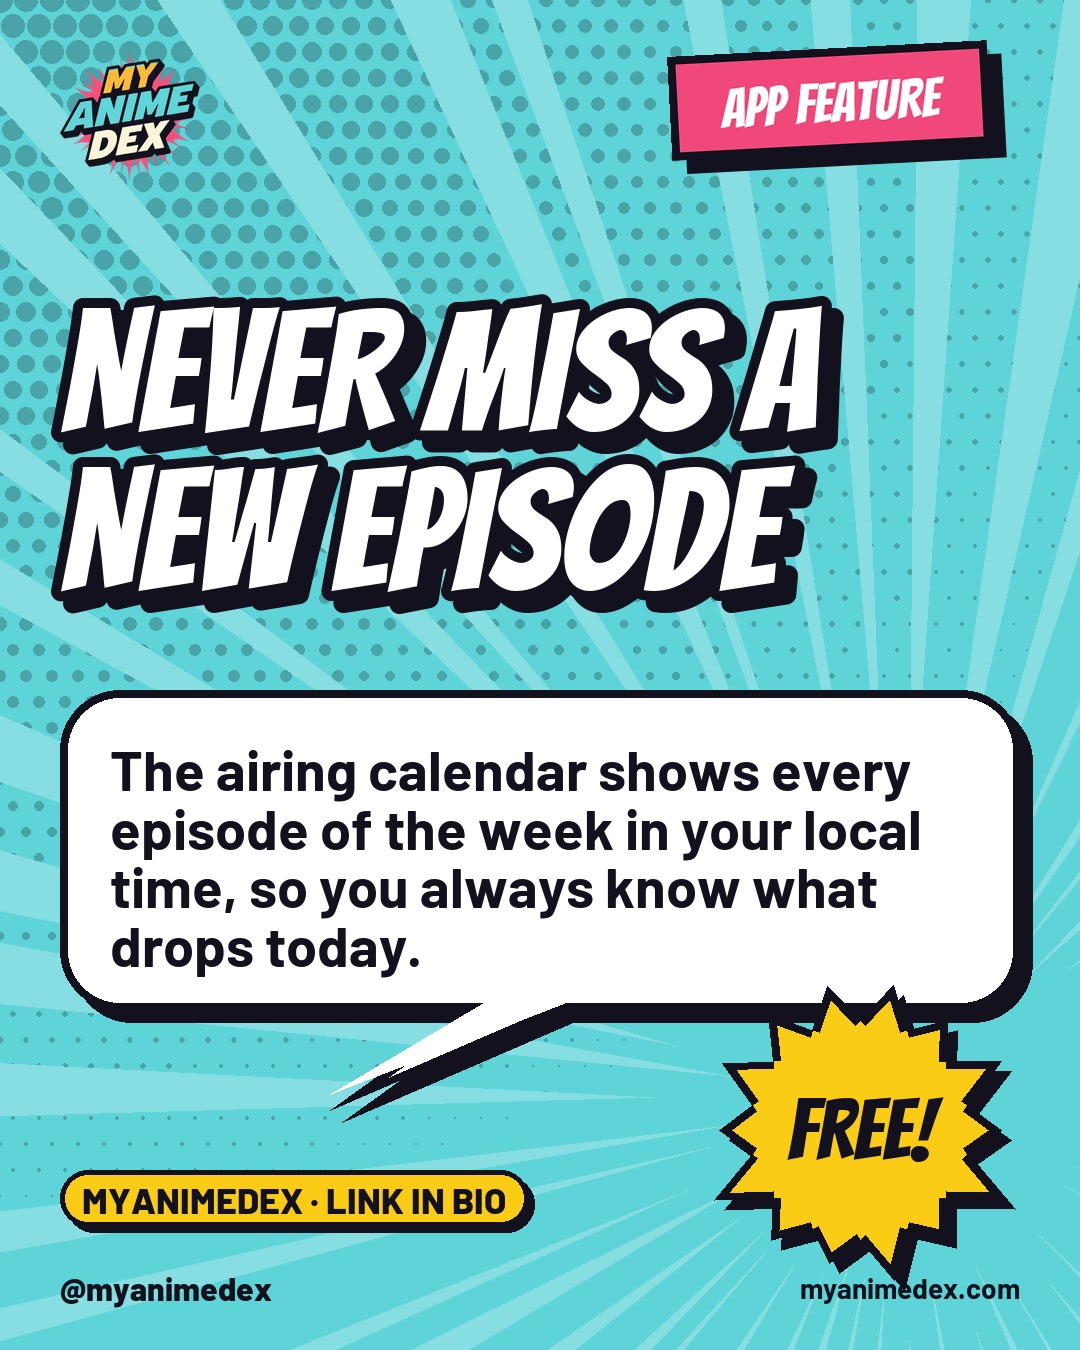
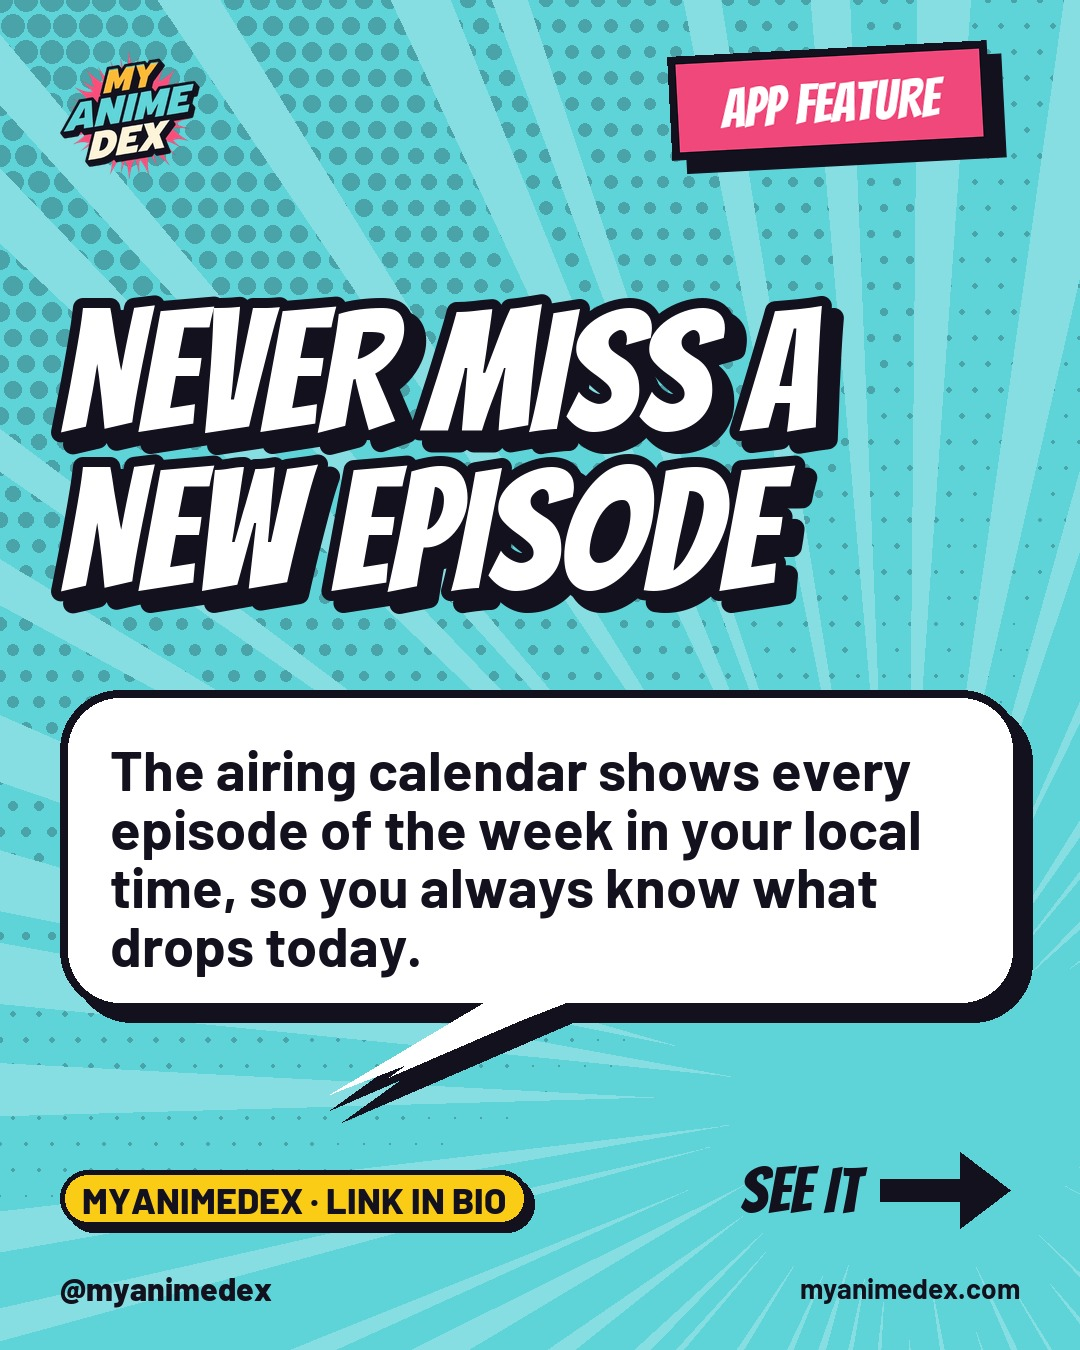
feat: feature posts become a 2-slide carousel with a masked app screenshot
Slide 1 is the typographic card, slide 2 shows the real app screen with
official posters and avatars covered by brand-colored blocks (mask boxes
in features.yaml). Refreshes the frozen Wednesday slot of plans/2026-W44.

Changed region(s): [[0.6722, 0.7156, 0.9472, 0.9644]]

diff --git a/src/mad/render/templates.py b/src/mad/render/templates.py
@@ -234,32 +234,48 @@ def _top5_slide(m, data) -> Canvas:
 # ---------------------------------------------------------------- Wednesday: app feature
 
 def render_feature(data: dict[str, Any], out_dir: Path) -> list[Path]:
+    """Slide 1: typographic feature card. Slide 2 (only with a screenshot): the app screen."""
     f = data["feature"]
     shot = resolve(f.get("screenshot"))
+    slides = [_feature_card(f, carousel=bool(shot))]
+    if shot:
+        slides.append(_feature_screen(f, shot))
+    return save_all(slides, out_dir)
+
+
+def _feature_card(f, carousel: bool) -> Canvas:
     c = Canvas(POST, TEAL)
     c.halftone(mix(TEAL, INK, 0.25), origin="tl", max_r=12)
     c.speed_lines((900, 1100), mix(TEAL, WHITE, 0.25), count=50, inner=200, seed=4)
     c.logo((60, 50), 130)
     banner(c, (840, 110), (f.get("kicker") or "APP FEATURE").upper(), 54, fill=MAGENTA, fg=WHITE,
            angle=3, name="comic")
-    if shot:
-        c.text_block((60, 240, 600, 700), f["title"].upper(), "comic", 130, 60, fill=WHITE, valign="top",
-                     stroke=8, shadow=(10, 10), max_lines=5)
-        c.bubble((60, 760, 600, 1130), tail_to=(470, 1210))
-        c.text_block((100, 800, 560, 1100), f["description"], "body_bold", 46, 26, fill=INK,
-                     valign="middle", max_lines=7)
-        c.rotated((470, 1020), lambda s: s.image(shot, (24, 24, 430, 970), radius=36), (830, 760), -4)
+    c.text_block((60, 240, 1020, 640), f["title"].upper(), "comic", 170, 70, fill=WHITE,
+                 valign="middle", stroke=10, shadow=(12, 12), max_lines=3)
+    c.bubble((60, 690, 1020, 1010), tail_to=(330, 1110))
+    c.text_block((110, 725, 970, 980), f["description"], "body_bold", 56, 30, fill=INK,
+                 valign="middle", max_lines=5)
+    if carousel:
+        c.text((860, 1190), "SEE IT", "comic", 64, fill=INK, anchor="rm")
+        c.arrow((880, 1190), 130)
     else:
-        c.text_block((60, 240, 1020, 640), f["title"].upper(), "comic", 170, 70, fill=WHITE,
-                     valign="middle", stroke=10, shadow=(12, 12), max_lines=3)
-        c.bubble((60, 690, 1020, 1010), tail_to=(330, 1110))
-        c.text_block((110, 725, 970, 980), f["description"], "body_bold", 56, 30, fill=INK,
-                     valign="middle", max_lines=5)
         c.burst((860, 1130), 150, 110, points=14, fill=YELLOW, shadow=(10, 10), seed=8)
         c.text((860, 1130), "FREE!", "comic", 84, fill=INK, anchor="mm")
     c.chip((60, 1170), "MYANIMEDEX · LINK IN BIO", size=36, fill=YELLOW)
     footer(c, fg=INK, data_credit=False)
-    return save_all([c], out_dir)
+    return c
+
+
+def _feature_screen(f, shot: Path) -> Canvas:
+    c = Canvas(POST, INK)
+    c.speed_lines((540, 700), mix(INK, TEAL, 0.18), count=80, inner=330)
+    c.halftone(mix(INK, MAGENTA, 0.45), origin="br", max_r=12)
+    banner(c, (540, 95), "IN THE APP", 76, fill=YELLOW, fg=INK, angle=-2)
+    c.image(shot, (300, 190, 780, 1240), radius=40, masks=f.get("mask"))
+    c.burst((945, 330), 100, 74, points=14, fill=MAGENTA, shadow=(10, 10), seed=6)
+    c.text((945, 332), "FREE", "comic", 56, fill=WHITE, anchor="mm", stroke=4)
+    footer(c, data_credit=False)
+    return c
 
 
 # ---------------------------------------------------------------- stories
@@ -310,7 +326,8 @@ def render_story_tip(data, out_dir):
         c.bubble((80, 730, 1000, 1020), tail_to=(330, 1090), shadow=12)
         c.text_block((130, 760, 950, 990), tip["text"], "body_bold", 54, 30, fill=INK, valign="middle",
                      max_lines=4)
-        c.rotated((520, 640), lambda s: s.image(shot, (24, 24, 480, 600), radius=36), (540, 1360), 3)
+        c.rotated((520, 640), lambda s: s.image(shot, (24, 24, 480, 600), radius=36, masks=tip.get("mask")),
+                  (540, 1360), 3)
     else:
         c.text_block((80, 560, 1000, 860), tip["title"].upper(), "comic", 170, 80, fill=INK,
                      valign="middle", max_lines=2)

diff --git a/src/mad/render/base.py b/src/mad/render/base.py
@@ -254,9 +254,18 @@ class Canvas:
         self.im.paste(im, (int(x), int(y)), im)
         return (x, y, x + w, y + height)
 
-    def image(self, path: Path, box, border=10, radius=48, shadow=18):
-        """Screenshot inside an inked phone frame, fitted into box (keeps aspect)."""
+    def image(self, path: Path, box, border=10, radius=48, shadow=18, masks=None):
+        """Screenshot inside an inked phone frame, fitted into box (keeps aspect).
+
+        `masks`: [[x0, y0, x1, y1], ...] in source-image pixels — areas (official posters,
+        avatars) that are covered with flat brand-colored blocks before drawing.
+        """
         src = Image.open(path).convert("RGB")
+        if masks:
+            md = ImageDraw.Draw(src)
+            r = max(4, src.width // 70)
+            for i, (mx0, my0, mx1, my1) in enumerate(masks):
+                md.rounded_rectangle((mx0, my0, mx1, my1), r, fill=mix(ACCENTS[i % 3], INK, 0.15))
         x0, y0, x1, y1 = box
         scale = min((x1 - x0) / src.width, (y1 - y0) / src.height)
         w, h = int(src.width * scale), int(src.height * scale)

diff --git a/src/mad/captions.py b/src/mad/captions.py
@@ -84,7 +84,7 @@ def hashtags(season: str, year: int, media: dict[str, Any] | None) -> list[str]:
     return tags
 
 
-def build(kind: str, variant_seed: int, fields: dict[str, Any], tags: list[str]) -> str:
+def build(kind: str, variant_seed: int, fields: dict[str, Any], tags: list[str], extra: str | None = None) -> str:
     templates = load_yaml("captions.yaml").get(kind)
     if not templates:
         raise MadError(f"content/captions.yaml has no templates for '{kind}'")
@@ -94,6 +94,8 @@ def build(kind: str, variant_seed: int, fields: dict[str, Any], tags: list[str])
         body = template.format(**fields).strip()
     except KeyError as exc:
         raise MadError(f"Caption template for '{kind}' uses unknown placeholder {exc}") from exc
+    if extra:
+        body = f"{body}\n\n{extra}"
     caption = f"{body}\n\n{' '.join(tags)}"
     if len(caption) > MAX_CAPTION_CHARS:
         raise MadError(f"Caption for '{kind}' is {len(caption)} chars (limit {MAX_CAPTION_CHARS})")

diff --git a/src/mad/planner.py b/src/mad/planner.py
@@ -180,9 +180,12 @@ def build_feature(ctx: Ctx) -> dict[str, Any]:
     fields = {"season_label": captions.season_label(ctx.season, ctx.year),
               "title": feature["title"], "description": feature["description"].strip()}
     tags = captions.hashtags(ctx.season, ctx.year, None)
-    caption = feature.get("caption") or captions.build("feature", ctx.seed, fields, tags)
+    swipe = "👉 Swipe to see it in the app." if feature.get("screenshot") else None
     if feature.get("caption"):
-        caption = f"{caption.strip()}\n\n{' '.join(tags)}"
+        body = feature["caption"].strip() + (f"\n\n{swipe}" if swipe else "")
+        caption = f"{body}\n\n{' '.join(tags)}"
+    else:
+        caption = captions.build("feature", ctx.seed, fields, tags, extra=swipe)
     return {"data": {"feature": feature}, "anime_ids": [], "caption": caption}
 
 

diff --git a/src/mad/__main__.py b/src/mad/__main__.py
@@ -222,9 +222,9 @@ def cmd_samples(args) -> int:
         if slot.get("caption"):
             captions_md += [f"## {KIND_LABELS[slot['kind']]}", "", "```", slot["caption"], "```", ""]
     features = [f for f in load_yaml("features.yaml").get("features", []) if f.get("enabled", True)]
-    with_shot = next((f for f in features if f.get("screenshot")), None)
-    if with_shot:
-        _render_slot({"kind": "feature", "data": {"feature": with_shot}}, SAMPLES_DIR / "feature_with_screenshot")
+    text_only = next((f for f in features if not f.get("screenshot")), None)
+    if text_only:
+        _render_slot({"kind": "feature", "data": {"feature": text_only}}, SAMPLES_DIR / "feature_text_only")
     (SAMPLES_DIR / "captions.md").write_text("\n".join(captions_md), "utf-8")
     for tmp in SAMPLES_DIR.rglob("caption.txt"):
         tmp.unlink()

diff --git a/README.md b/README.md
@@ -219,13 +219,16 @@ features:
     title: Never miss a new episode # görseldeki başlık (~40 karakter)
     description: The airing calendar shows every episode ...  # 1–2 cümle (~160 karakter)
     kicker: APP FEATURE             # opsiyonel küçük etiket
-    screenshot: assets/screenshots/calendar.png   # opsiyonel, dikey PNG/JPG
+    screenshot: assets/screenshots/calendar-myweek.webp   # opsiyonel, dikey PNG/JPG/WebP
+    mask:                           # opsiyonel: kapatılacak alanlar (ekran görüntüsünün kendi pikselleri)
+      - [113, 440, 178, 523]        # [x0, y0, x1, y1]
     caption: |                      # opsiyonel: hazır açıklama yerine kendi metniniz
       ...
     enabled: true                   # false = atla
 ```
 - Liste yukarıdan aşağıya sırayla döner. Son paylaşılan `id` state'te tutulur. Araya yeni özellik ekleyebilirsiniz, sıra korunur.
-- ⚠ **Ekran görüntülerinde resmî poster veya karakter görseli olmamalı.** Uygulamanın liste, takvim ve detay ekranlarında poster var. Bunları kırpın, bulanıklaştırın ya da `screenshot` alanını boş bırakın. Şablon ekran görüntüsü olmadan da tamamen tipografik çalışır (bkz. `samples/feature/` ve `samples/feature_with_screenshot/`).
+- **Ekran görüntüsü varsa** post 2 slaytlık bir carousel olur: 1. slayt tipografik kart ("SEE IT →"), 2. slayt telefon çerçevesinde uygulama ekranı ("IN THE APP"). Açıklamaya "👉 Swipe to see it in the app." satırı eklenir. Ekran görüntüsü yoksa tek görsel paylaşılır.
+- ⚠ **Resmî poster, kapak ve karakter avatarları görünmemeli.** Uygulamanın liste, takvim ve izleme ekranlarında kapak resimleri var. Bunların koordinatlarını `mask` alanına yazın; her kutu marka renginde düz bir blokla kapatılır. Koordinatları bulmak için görseli Önizleme'de (Preview) açıp alan seçebilir ya da Claude'dan isteyebilirsiniz. İstatistik ve dil ekranlarında poster yok, bunlarda maske gerekmez.
 - Şu anki girdiler **örnektir**. Kendi metinlerinizle değiştirin.
 
 ### `content/tips.yaml` (Salı hikâyesi)

diff --git a/samples/captions.md b/samples/captions.md
@@ -26,6 +26,8 @@ The airing calendar shows every episode of the week in your local time, so you a
 
 Track what you watch, what's next and what's airing this season with MyAnimeDex. Link in bio.
 
+👉 Swipe to see it in the app.
+
 #anime #animerecommendations #fall2026anime #myanimedex
 ```
 
